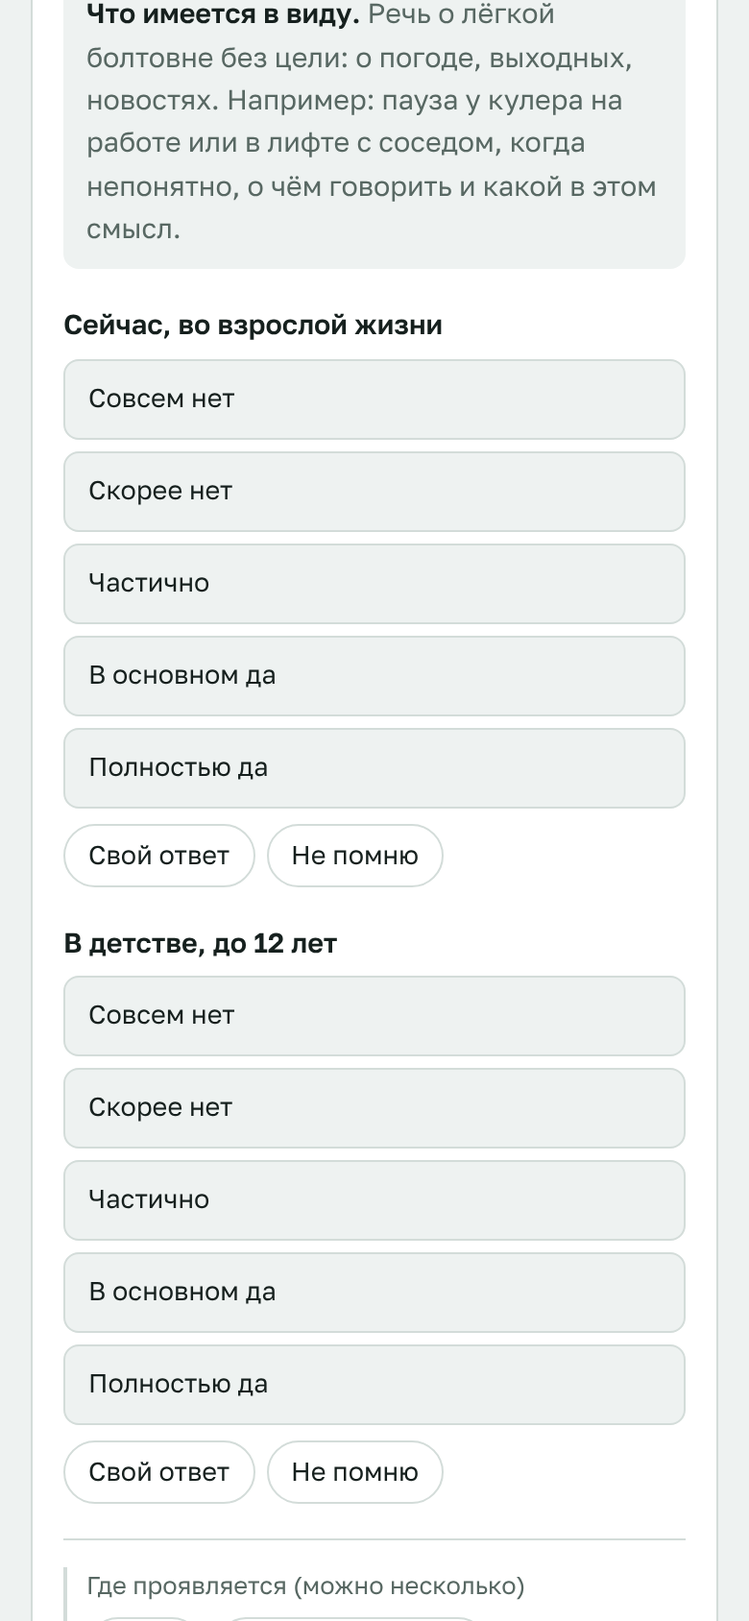
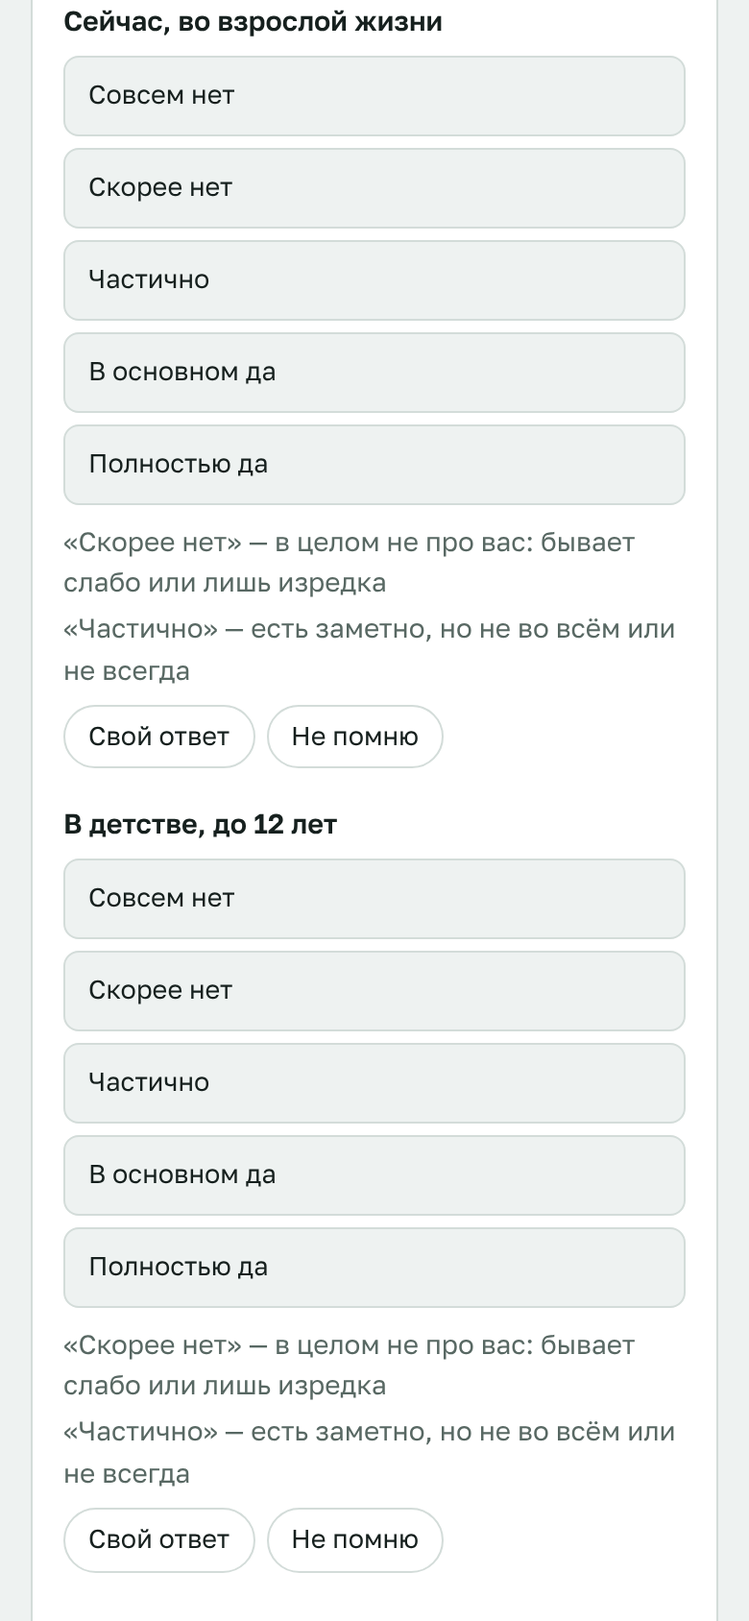
v0.9: simpler answer form
Extra fields (where, visible, impact) only shown and scored when the
'now' answer is at least 'partly'; add 'Не знаю' to them; remove the
'unsure' checkbox and its ±0.2 band; explain 'скорее нет' and 'частично';
drop the inner-contradiction check.

Claude-Session: https://claude.ai/code/session_01Jy1v1oN3Y2bKLuoMN7sQ5k

Changed region(s): [[0.0615, 0.0, 0.9231, 0.9858], [0.0615, 0.955, 0.0923, 1.0]]

diff --git a/dist/scoring.js b/dist/scoring.js
@@ -1,6 +1,7 @@
 // Движок подсчёта ND-Screen v0.2 (см. spec §5). Чистые функции, без DOM.
 // Ответ на пункт:
-//   { now: {I, F}, child: {I, F, unknown}, ctx: [], mask: 0..2, harm: 0..3, unsure, note, na, rt }
+//   { now: {I, F}, child: {I, F, unknown}, ctx: [], mask: 0..2, harm: 0..3, ctxUnk, maskUnk, harmUnk, note, na, rt }
+// ctx, mask и harm учитываются, только если сейчас признак есть хотя бы «частично» (now.I >= 2); «не знаю» = нет ответа.
 //   для kind=func: { now: {D}, child: {D} }
 // I: 0..4, F: "rare"|"some"|"often"|"always", D: 0..3
 
@@ -10,7 +11,6 @@ ND.PARAMS = {
   alpha: 0.5,      // вес добавки за маскировку
   thetaHi: 0.6,    // порог «выполнен»
   thetaLo: 0.4,    // порог «вероятно»
-  unsureBand: 0.2, // ширина интервала для неуверенных ответов
   minCoverage: 0.5,
   adhdAdult: 5,    // DSM-5-TR, 17+ лет
   adhdChildDsm: 3, // «несколько симптомов до 12 лет»
@@ -49,20 +49,19 @@ ND.scoring = (function () {
     const In = p.I / 4;
     if (item.rev) return { s: 1 - In, lo: 1 - In, hi: 1 - In };
     // у сильных сторон частота не спрашивается, поэтому балл равен уровню согласия (иначе «полностью да» давало бы максимум 0.75)
-    if (item.kind === "strength") { const band = r.unsure ? P.unsureBand : 0; return { s: In, lo: Math.max(0, In - band), hi: Math.min(1, In + band) }; }
+    if (item.kind === "strength") return { s: In, lo: In, hi: In };
     const Fn = p.F ? ND.FREQ[p.F] : p.I >= 2 ? 0.5 : 0.2;
     let s = In * (0.5 + 0.5 * Fn);
-    // поправка на маскировку пропорциональна силе признака: при «скорее нет» она почти не действует.
-    // Вопрос «скрываете ли вы» задан про настоящее, поэтому к ответам о детстве поправка не применяется.
-    const m = period === "now" && !item.noMask ? r.mask || 0 : 0;
+    // поправка на маскировку пропорциональна силе признака.
+    // Вопрос «видно ли со стороны» задан про настоящее и показывается только при «частично» и выше,
+    // поэтому к ответам о детстве и к «скорее нет» поправка не применяется.
+    const m = period === "now" && !item.noMask && p.I >= 2 ? r.mask || 0 : 0;
     if (s > 0 && m > 0) s = s + P.alpha * (m / 2) * (1 - s) * In;
-    const band = r.unsure ? P.unsureBand : 0;
-    return { s, lo: Math.max(0, s - band), hi: Math.min(1, s + band) };
+    return { s, lo: s, hi: s };
   }
 
-  // Статус по интервалу [lo, hi]. Без «не уверен(а)» интервал сжат в точку и решает сам балл.
-  // «Выполнен» — весь интервал не ниже верхнего порога; «нет» — весь интервал ниже нижнего;
-  // если неуверенность не позволяет ни подтвердить, ни исключить, статус «вероятно».
+  // Статус по баллу. Поля lo и hi остались от галочки «не уверен(а)» (убрана в v0.9) и теперь равны s.
+  // «Выполнен» — не ниже верхнего порога; «нет» — ниже нижнего; между ними «вероятно».
   function classify(agg, coverage, extraOk = true) {
     if (coverage < P.minCoverage) return ST.NODATA;
     if (agg.lo >= P.thetaHi && extraOk) return ST.MET;
@@ -168,23 +167,8 @@ ND.scoring = (function () {
       flags.push({ code: "pair", severity: badPairs.length >= 2 ? "hard" : "soft", items: badPairs.flat(), details: pairDetails,
         text: `Противоречат друг другу ответы в ${badPairs.length} из ${checkedPairs} пар вопросов с противоположным смыслом.` });
 
-    // 2. Противоречия внутри одного ответа: «совсем нет», но «мешает заметно/сильно» или «не видно, скрываю с усилием».
-    // Отмеченные места при «совсем нет» не считаются противоречием: люди часто отмечают, где бывает сама ситуация,
-    // а в подсчёт места при таком ответе и так не попадают.
-    const inner = [];
-    for (const it of ND.ITEMS.filter((x) => !x.rev && !x.kind && ND.eligible(x, R))) {
-      const r = ans(it.id);
-      if (!r || !r.now || r.now.I !== 0) continue;
-      checks++;
-      const fields = ["I"], why = [];
-      if (r.harm >= 2) { fields.push("harm"); why.push("что он мешает"); }
-      if (r.mask === 2 && !it.noMask) { fields.push("mask"); why.push("что вы его полностью скрываете"); }
-      if (why.length) inner.push({ strength: r.harm === 3 || why.length === 2 ? "strong" : "moderate", refs: [{ id: it.id, period: "now", fields }],
-        why: `Выбрано «совсем нет», то есть признака нет, но при этом отмечено, ${why.join(" и ")}. Одно из двух, скорее всего, отмечено по ошибке.` });
-    }
-    if (inner.length)
-      flags.push({ code: "inner", severity: inner.length >= 5 ? "hard" : "soft", items: inner.map((x) => x.refs[0].id), details: inner,
-        text: `${plural(inner.length, "В {n} ответе", "В {n} ответах", "В {n} ответах")} выбрано «совсем нет», но при этом отмечено, что признак мешает или скрывается с усилием.` });
+    // 2. Противоречий внутри одного ответа больше нет: при «совсем нет» и «скорее нет» поля «мешает» и «видно ли»
+    // не показываются и не учитываются.
 
     // 3. Отдельные вопросы против итоговых вопросов о жизни: по отдельным признакам «мешает заметно или сильно»,
     // а во всех сферах жизни «не мешали». Мягкий флаг: человек мог оценивать сферы по-другому.
@@ -201,7 +185,7 @@ ND.scoring = (function () {
 
     // 4. Камуфляж: в вопросах о маскировке почти везде «нет», но в вопросах об общении многое «не видно, скрываю с усилием».
     const camo = constructScore("CAMO", R, "now");
-    const hidden = ND.ITEMS.filter((it) => it.c && /^ASD\.A/.test(it.c) && ND.eligible(it, R)).filter((it) => { const r = ans(it.id); return r && r.now && r.now.I >= 1 && r.mask === 2; });
+    const hidden = ND.ITEMS.filter((it) => it.c && /^ASD\.A/.test(it.c) && ND.eligible(it, R)).filter((it) => { const r = ans(it.id); return r && r.now && r.now.I >= 2 && r.mask === 2; });
     if (camo.n >= 3) {
       checks++;
       if (camo.s < 0.25 && hidden.length >= 4) {

diff --git a/src/scoring.js b/src/scoring.js
@@ -1,6 +1,7 @@
 // Движок подсчёта ND-Screen v0.2 (см. spec §5). Чистые функции, без DOM.
 // Ответ на пункт:
-//   { now: {I, F}, child: {I, F, unknown}, ctx: [], mask: 0..2, harm: 0..3, unsure, note, na, rt }
+//   { now: {I, F}, child: {I, F, unknown}, ctx: [], mask: 0..2, harm: 0..3, ctxUnk, maskUnk, harmUnk, note, na, rt }
+// ctx, mask и harm учитываются, только если сейчас признак есть хотя бы «частично» (now.I >= 2); «не знаю» = нет ответа.
 //   для kind=func: { now: {D}, child: {D} }
 // I: 0..4, F: "rare"|"some"|"often"|"always", D: 0..3
 
@@ -10,7 +11,6 @@ ND.PARAMS = {
   alpha: 0.5,      // вес добавки за маскировку
   thetaHi: 0.6,    // порог «выполнен»
   thetaLo: 0.4,    // порог «вероятно»
-  unsureBand: 0.2, // ширина интервала для неуверенных ответов
   minCoverage: 0.5,
   adhdAdult: 5,    // DSM-5-TR, 17+ лет
   adhdChildDsm: 3, // «несколько симптомов до 12 лет»
@@ -49,20 +49,19 @@ ND.scoring = (function () {
     const In = p.I / 4;
     if (item.rev) return { s: 1 - In, lo: 1 - In, hi: 1 - In };
     // у сильных сторон частота не спрашивается, поэтому балл равен уровню согласия (иначе «полностью да» давало бы максимум 0.75)
-    if (item.kind === "strength") { const band = r.unsure ? P.unsureBand : 0; return { s: In, lo: Math.max(0, In - band), hi: Math.min(1, In + band) }; }
+    if (item.kind === "strength") return { s: In, lo: In, hi: In };
     const Fn = p.F ? ND.FREQ[p.F] : p.I >= 2 ? 0.5 : 0.2;
     let s = In * (0.5 + 0.5 * Fn);
-    // поправка на маскировку пропорциональна силе признака: при «скорее нет» она почти не действует.
-    // Вопрос «скрываете ли вы» задан про настоящее, поэтому к ответам о детстве поправка не применяется.
-    const m = period === "now" && !item.noMask ? r.mask || 0 : 0;
+    // поправка на маскировку пропорциональна силе признака.
+    // Вопрос «видно ли со стороны» задан про настоящее и показывается только при «частично» и выше,
+    // поэтому к ответам о детстве и к «скорее нет» поправка не применяется.
+    const m = period === "now" && !item.noMask && p.I >= 2 ? r.mask || 0 : 0;
     if (s > 0 && m > 0) s = s + P.alpha * (m / 2) * (1 - s) * In;
-    const band = r.unsure ? P.unsureBand : 0;
-    return { s, lo: Math.max(0, s - band), hi: Math.min(1, s + band) };
+    return { s, lo: s, hi: s };
   }
 
-  // Статус по интервалу [lo, hi]. Без «не уверен(а)» интервал сжат в точку и решает сам балл.
-  // «Выполнен» — весь интервал не ниже верхнего порога; «нет» — весь интервал ниже нижнего;
-  // если неуверенность не позволяет ни подтвердить, ни исключить, статус «вероятно».
+  // Статус по баллу. Поля lo и hi остались от галочки «не уверен(а)» (убрана в v0.9) и теперь равны s.
+  // «Выполнен» — не ниже верхнего порога; «нет» — ниже нижнего; между ними «вероятно».
   function classify(agg, coverage, extraOk = true) {
     if (coverage < P.minCoverage) return ST.NODATA;
     if (agg.lo >= P.thetaHi && extraOk) return ST.MET;
@@ -168,23 +167,8 @@ ND.scoring = (function () {
       flags.push({ code: "pair", severity: badPairs.length >= 2 ? "hard" : "soft", items: badPairs.flat(), details: pairDetails,
         text: `Противоречат друг другу ответы в ${badPairs.length} из ${checkedPairs} пар вопросов с противоположным смыслом.` });
 
-    // 2. Противоречия внутри одного ответа: «совсем нет», но «мешает заметно/сильно» или «не видно, скрываю с усилием».
-    // Отмеченные места при «совсем нет» не считаются противоречием: люди часто отмечают, где бывает сама ситуация,
-    // а в подсчёт места при таком ответе и так не попадают.
-    const inner = [];
-    for (const it of ND.ITEMS.filter((x) => !x.rev && !x.kind && ND.eligible(x, R))) {
-      const r = ans(it.id);
-      if (!r || !r.now || r.now.I !== 0) continue;
-      checks++;
-      const fields = ["I"], why = [];
-      if (r.harm >= 2) { fields.push("harm"); why.push("что он мешает"); }
-      if (r.mask === 2 && !it.noMask) { fields.push("mask"); why.push("что вы его полностью скрываете"); }
-      if (why.length) inner.push({ strength: r.harm === 3 || why.length === 2 ? "strong" : "moderate", refs: [{ id: it.id, period: "now", fields }],
-        why: `Выбрано «совсем нет», то есть признака нет, но при этом отмечено, ${why.join(" и ")}. Одно из двух, скорее всего, отмечено по ошибке.` });
-    }
-    if (inner.length)
-      flags.push({ code: "inner", severity: inner.length >= 5 ? "hard" : "soft", items: inner.map((x) => x.refs[0].id), details: inner,
-        text: `${plural(inner.length, "В {n} ответе", "В {n} ответах", "В {n} ответах")} выбрано «совсем нет», но при этом отмечено, что признак мешает или скрывается с усилием.` });
+    // 2. Противоречий внутри одного ответа больше нет: при «совсем нет» и «скорее нет» поля «мешает» и «видно ли»
+    // не показываются и не учитываются.
 
     // 3. Отдельные вопросы против итоговых вопросов о жизни: по отдельным признакам «мешает заметно или сильно»,
     // а во всех сферах жизни «не мешали». Мягкий флаг: человек мог оценивать сферы по-другому.
@@ -201,7 +185,7 @@ ND.scoring = (function () {
 
     // 4. Камуфляж: в вопросах о маскировке почти везде «нет», но в вопросах об общении многое «не видно, скрываю с усилием».
     const camo = constructScore("CAMO", R, "now");
-    const hidden = ND.ITEMS.filter((it) => it.c && /^ASD\.A/.test(it.c) && ND.eligible(it, R)).filter((it) => { const r = ans(it.id); return r && r.now && r.now.I >= 1 && r.mask === 2; });
+    const hidden = ND.ITEMS.filter((it) => it.c && /^ASD\.A/.test(it.c) && ND.eligible(it, R)).filter((it) => { const r = ans(it.id); return r && r.now && r.now.I >= 2 && r.mask === 2; });
     if (camo.n >= 3) {
       checks++;
       if (camo.s < 0.25 && hidden.length >= 4) {

diff --git a/tests/scoring.test.js b/tests/scoring.test.js
@@ -42,7 +42,7 @@ const pick = (a) => a[Math.floor(rnd() * a.length)];
 function answer(it, lvl) {
   if (it.kind === "func") return { now: { D: Math.min(3, lvl) }, child: { D: Math.min(3, lvl) }, rt: 5000 };
   const p = () => { const I = Math.max(0, Math.min(4, lvl + pick([-1, 0, 0, 1]))); return I >= 2 ? { I, F: pick(FREQ) } : { I }; };
-  return { now: p(), child: rnd() < 0.1 ? { unknown: true } : p(), mask: pick([0, 0, 1, 2]), harm: pick([0, 1, 2, 3]), ctx: [pick(["home", "work", "friends"])], unsure: rnd() < 0.1, rt: 5000 };
+  return { now: p(), child: rnd() < 0.1 ? { unknown: true } : p(), mask: pick([0, 0, 1, 2]), harm: pick([0, 1, 2, 3]), ctx: [pick(["home", "work", "friends"])], rt: 5000 };
 }
 function profile(lvlFn) { const R = {}; for (const it of ITEMS) R[it.id] = answer(it, lvlFn(it)); return R; }
 const uniform = (l) => () => l;
@@ -96,7 +96,10 @@ for (let k = 0; k < 300; k++) {
   check("частота повышает балл", ND.scoring.itemScore(it, { ...base, now: { I: 3, F: "always" } }, "now").s > s0);
   check("маскировка повышает балл", ND.scoring.itemScore(it, { ...base, mask: 2 }, "now").s > s0);
   const u = ND.scoring.itemScore(it, { ...base, unsure: true }, "now");
-  check("«не уверен» расширяет интервал", u.lo < u.s && u.hi > u.s);
+  check("старая галочка «не уверен(а)» больше не влияет (v0.9)", u.s === s0 && u.lo === s0 && u.hi === s0, u);
+  const low = { now: { I: 1 }, child: { I: 1 } }, l0 = ND.scoring.itemScore(it, low, "now").s;
+  check("при «скорее нет» «видно ли со стороны» не учитывается", ND.scoring.itemScore(it, { ...low, mask: 2 }, "now").s === l0);
+  check("«не знаю» в поле «видно ли» = нет ответа", ND.scoring.itemScore(it, { ...base, maskUnk: true }, "now").s === s0);
   check("«не помню» исключает период", ND.scoring.itemScore(it, { ...base, child: { unknown: true } }, "child") === null);
   check("свой ответ без варианта не считается", ND.scoring.itemScore(it, { now: { custom: true, text: "иногда" }, child: {} }, "now") === null);
   check("«неприменимо» исключает вопрос", ND.scoring.itemScore(it, { ...base, na: true }, "now") === null);
@@ -211,25 +214,25 @@ for (let k = 0; k < 300; k++) {
 
   const R2 = consistent();
   ITEMS.filter((x) => !x.rev && !x.kind && !x.fu).slice(0, 5).forEach((it) => { R2[it.id].now = { I: 0 }; R2[it.id].harm = 3; });
-  check("5 ответов «совсем нет, но мешает сильно» → жёсткий флаг", ev(R2).validity.some((f) => f.code === "inner" && f.severity === "hard"), ev(R2).validity);
+  check("«совсем нет» с сохранённым «мешает сильно» больше не противоречие: поле скрыто", !ev(R2).validity.some((f) => f.code === "inner"), ev(R2).validity);
+  check("скрытые поля при «совсем нет» не меняют индексы", ev(R2).asd.index === ev((() => { const X = JSON.parse(JSON.stringify(R2)); for (const k in X) if (X[k].now && X[k].now.I === 0) delete X[k].harm; return X; })()).asd.index);
 
   const R3 = consistent();
   const one = ITEMS.find((x) => x.id === "A1-1"); R3[one.id].now = { I: 0 }; R3[one.id].harm = 3;
-  check("одна такая ошибка → только мягкое предупреждение", !ev(R3).validity.some((f) => f.code === "inner" && f.severity === "hard"));
+  check("одна такая отметка флага не даёт", !ev(R3).validity.some((f) => f.code === "inner"));
 }
 
 // ── Логика весов (v0.4.2) ──
 {
   const base = () => { const R = {}; for (const it of ITEMS) if (it.c === "ASD.A1") R[it.id] = { now: { I: 3, F: "often" }, child: { I: 3, F: "often" } }; return R; };
   const st = (R) => ev(R).constructs["ASD.A1"].now.status;
-  check("без неуверенности A1 «выполнен»", st(base()) === "met", ev(base()).constructs["ASD.A1"].now);
+  check("A1 «выполнен»", st(base()) === "met", ev(base()).constructs["ASD.A1"].now);
   const U = base(); for (const k in U) U[k].unsure = true;
-  check("та же картина, но везде «не уверен(а)» → «вероятно»", st(U) === "probable", ev(U).constructs["ASD.A1"].now);
+  check("старая отметка «не уверен(а)» статус не меняет", st(U) === "met", ev(U).constructs["ASD.A1"].now);
   const W = {}; for (const it of ITEMS) if (it.c === "ASD.A1") W[it.id] = { now: { I: 2, F: "rare" }, child: { I: 0 } };
-  const W2 = JSON.parse(JSON.stringify(W)); for (const k in W2) W2[k].unsure = true;
-  check("слабый признак без неуверенности → «нет»", st(W) === "no", ev(W).constructs["ASD.A1"].now);
-  check("слабый признак с неуверенностью → «вероятно» (симметрично)", st(W2) === "probable", ev(W2).constructs["ASD.A1"].now);
-  check("неуверенность не меняет сам балл", ev(U).constructs["ASD.A1"].now.s === ev(base()).constructs["ASD.A1"].now.s);
+  check("слабый признак → «нет»", st(W) === "no", ev(W).constructs["ASD.A1"].now);
+  const K = base(); for (const k in K) { K[k].harmUnk = true; K[k].maskUnk = true; K[k].ctxUnk = true; }
+  check("«не знаю» в доп. полях не меняет баллы", ev(K).asd.index === ev(base()).asd.index && st(K) === "met");
 
   const it = ITEMS.find((x) => x.id === "A1-1");
   const r0 = { now: { I: 3, F: "often" }, child: { I: 3, F: "often" } }, r2 = { ...r0, mask: 2 };

diff --git a/dist/clinician.js b/dist/clinician.js
@@ -20,11 +20,16 @@ ND.clinician = (function () {
       return U.I_LABELS[x.I].toLowerCase() + (x.F ? ", " + F[x.F].toLowerCase() : "");
     };
     const parts = [`сейчас: ${per("now")}`, `детство: ${per("child")}`];
-    if (r.mask === 1) parts.push("частично сдерживает");
-    if (r.mask === 2) parts.push("скрывает с усилием");
-    if (r.harm >= 1) parts.push("мешает " + U.D_LABELS[r.harm].toLowerCase());
-    if (r.ctx && r.ctx.length) parts.push("где: " + r.ctx.map((c) => CTX_LABEL()[c].toLowerCase()).join(", "));
-    if (r.unsure) parts.push("не уверен(а)");
+    // где, мешает и видно ли учитываются только при «частично» и выше (старые сохранённые ответы могут их содержать)
+    if (r.now && r.now.I >= 2) {
+      if (r.mask === 1) parts.push("частично сдерживает");
+      if (r.mask === 2) parts.push("скрывает с усилием");
+      if (r.maskUnk) parts.push("видно ли со стороны: не знает");
+      if (r.harm >= 1) parts.push("мешает " + U.D_LABELS[r.harm].toLowerCase());
+      if (r.harmUnk) parts.push("мешает ли: не знает");
+      if (r.ctx && r.ctx.length) parts.push("где: " + r.ctx.map((c) => CTX_LABEL()[c].toLowerCase()).join(", "));
+      if (r.ctxUnk) parts.push("где: не знает");
+    }
     return parts.join(" · ");
   }
 
@@ -225,7 +230,6 @@ ND.clinician = (function () {
     const topics = [
       ["Скрывает с усилием (вероятная маскировка, уточнить у близких)", scored.filter((it) => R[it.id].mask === 2)],
       ["Выражено сейчас, но детство не вспомнил(а) (нужен рассказ родителя)", scored.filter((it) => R[it.id].child && R[it.id].child.unknown)],
-      ["Не уверен(а) в ответе", scored.filter((it) => R[it.id].unsure)],
       ["Выражено сейчас, в детстве не было (уточнить начало и возможные другие причины)", scored.filter((it) => R[it.id].child && R[it.id].child.I != null && R[it.id].child.I <= 0 && R[it.id].now.I >= 3)],
     ].filter(([, list]) => list.length);
     const own = ND.ITEMS.filter((it) => R[it.id]).map((it) => {

diff --git a/src/clinician.js b/src/clinician.js
@@ -20,11 +20,16 @@ ND.clinician = (function () {
       return U.I_LABELS[x.I].toLowerCase() + (x.F ? ", " + F[x.F].toLowerCase() : "");
     };
     const parts = [`сейчас: ${per("now")}`, `детство: ${per("child")}`];
-    if (r.mask === 1) parts.push("частично сдерживает");
-    if (r.mask === 2) parts.push("скрывает с усилием");
-    if (r.harm >= 1) parts.push("мешает " + U.D_LABELS[r.harm].toLowerCase());
-    if (r.ctx && r.ctx.length) parts.push("где: " + r.ctx.map((c) => CTX_LABEL()[c].toLowerCase()).join(", "));
-    if (r.unsure) parts.push("не уверен(а)");
+    // где, мешает и видно ли учитываются только при «частично» и выше (старые сохранённые ответы могут их содержать)
+    if (r.now && r.now.I >= 2) {
+      if (r.mask === 1) parts.push("частично сдерживает");
+      if (r.mask === 2) parts.push("скрывает с усилием");
+      if (r.maskUnk) parts.push("видно ли со стороны: не знает");
+      if (r.harm >= 1) parts.push("мешает " + U.D_LABELS[r.harm].toLowerCase());
+      if (r.harmUnk) parts.push("мешает ли: не знает");
+      if (r.ctx && r.ctx.length) parts.push("где: " + r.ctx.map((c) => CTX_LABEL()[c].toLowerCase()).join(", "));
+      if (r.ctxUnk) parts.push("где: не знает");
+    }
     return parts.join(" · ");
   }
 
@@ -225,7 +230,6 @@ ND.clinician = (function () {
     const topics = [
       ["Скрывает с усилием (вероятная маскировка, уточнить у близких)", scored.filter((it) => R[it.id].mask === 2)],
       ["Выражено сейчас, но детство не вспомнил(а) (нужен рассказ родителя)", scored.filter((it) => R[it.id].child && R[it.id].child.unknown)],
-      ["Не уверен(а) в ответе", scored.filter((it) => R[it.id].unsure)],
       ["Выражено сейчас, в детстве не было (уточнить начало и возможные другие причины)", scored.filter((it) => R[it.id].child && R[it.id].child.I != null && R[it.id].child.I <= 0 && R[it.id].now.I >= 3)],
     ].filter(([, list]) => list.length);
     const own = ND.ITEMS.filter((it) => R[it.id]).map((it) => {

diff --git a/dist/explain.js b/dist/explain.js
@@ -13,18 +13,17 @@ ND.explain = (function () {
     if (k.status === ST.NODATA) return "Отвечено меньше половины основных вопросов, поэтому оценки нет.";
     // округление не должно давать «40: ниже 40»: значение показывается в пределах своего диапазона
     const s = k.status === ST.NO ? Math.min(39, pct(k.s)) : k.status === ST.PROB && k.s < P.thetaHi ? Math.min(59, Math.max(40, pct(k.s))) : pct(k.s);
-    if (k.status === ST.MET) return `Выраженность ${s}: не ниже порога 60.` + (k.hi > k.lo ? ` Даже с учётом «не уверен(а)» нижняя граница ${pct(k.lo)} не ниже 60.` : "");
+    if (k.status === ST.MET) return `Выраженность ${s}: не ниже порога 60.`;
     if (k.status === ST.PROB) {
       const parts = [];
-      if (k.s >= P.thetaHi && k.lo < P.thetaHi && !extra) parts.push(`Выраженность ${s} выше 60, но из-за отметок «не уверен(а)» нижняя граница ${pct(k.lo)}. Чтобы засчитать «выполнен», весь диапазон должен быть не ниже 60.`);
-      else if (k.s >= P.thetaHi && extra) parts.push(`Выраженность ${s} выше 60, но ${extra}.`);
+      if (k.s >= P.thetaHi && extra) parts.push(`Выраженность ${s} выше 60, но ${extra}.`);
       else {
         parts.push(`Выраженность ${s}: между 40 и 60. До «выполнен» не хватает ${gap(k.s, P.thetaHi)}.`);
         if (extra) parts.push(`Кроме того, ${extra}.`);
       }
       return parts.join(" ");
     }
-    return `Выраженность ${s}: ниже 40.` + (k.hi > k.s ? ` С учётом «не уверен(а)» верхняя граница ${pct(k.hi)}, тоже ниже 40.` : ` До «вероятно» не хватает ${gap(k.s, P.thetaLo)}.`);
+    return `Выраженность ${s}: ниже 40.` + ` До «вероятно» не хватает ${gap(k.s, P.thetaLo)}.`;
   }
 
   // DSM требует «часто»: есть ли у симптома ответ с частотой «часто» или «почти всегда»

diff --git a/src/explain.js b/src/explain.js
@@ -13,18 +13,17 @@ ND.explain = (function () {
     if (k.status === ST.NODATA) return "Отвечено меньше половины основных вопросов, поэтому оценки нет.";
     // округление не должно давать «40: ниже 40»: значение показывается в пределах своего диапазона
     const s = k.status === ST.NO ? Math.min(39, pct(k.s)) : k.status === ST.PROB && k.s < P.thetaHi ? Math.min(59, Math.max(40, pct(k.s))) : pct(k.s);
-    if (k.status === ST.MET) return `Выраженность ${s}: не ниже порога 60.` + (k.hi > k.lo ? ` Даже с учётом «не уверен(а)» нижняя граница ${pct(k.lo)} не ниже 60.` : "");
+    if (k.status === ST.MET) return `Выраженность ${s}: не ниже порога 60.`;
     if (k.status === ST.PROB) {
       const parts = [];
-      if (k.s >= P.thetaHi && k.lo < P.thetaHi && !extra) parts.push(`Выраженность ${s} выше 60, но из-за отметок «не уверен(а)» нижняя граница ${pct(k.lo)}. Чтобы засчитать «выполнен», весь диапазон должен быть не ниже 60.`);
-      else if (k.s >= P.thetaHi && extra) parts.push(`Выраженность ${s} выше 60, но ${extra}.`);
+      if (k.s >= P.thetaHi && extra) parts.push(`Выраженность ${s} выше 60, но ${extra}.`);
       else {
         parts.push(`Выраженность ${s}: между 40 и 60. До «выполнен» не хватает ${gap(k.s, P.thetaHi)}.`);
         if (extra) parts.push(`Кроме того, ${extra}.`);
       }
       return parts.join(" ");
     }
-    return `Выраженность ${s}: ниже 40.` + (k.hi > k.s ? ` С учётом «не уверен(а)» верхняя граница ${pct(k.hi)}, тоже ниже 40.` : ` До «вероятно» не хватает ${gap(k.s, P.thetaLo)}.`);
+    return `Выраженность ${s}: ниже 40.` + ` До «вероятно» не хватает ${gap(k.s, P.thetaLo)}.`;
   }
 
   // DSM требует «часто»: есть ли у симптома ответ с частотой «часто» или «почти всегда»

diff --git a/docs/spec.md b/docs/spec.md
@@ -421,9 +421,18 @@ ScoreResult:
 
 ## v0.8.1: убрана проверка «разброс внутри темы»
 
-- Участники получали «Разброс» на пары вроде «делаю повторяющиеся движения» и «завораживают вращающиеся предметы»: это разные проявления одной темы, и разные ответы на них нормальны. Проверка не находила противоречий, а путала людей, поэтому удалена. Остались пары с противоположным смыслом, противоречия внутри ответа, сферы жизни против вопросов, маскировка, однообразие, скорость и «неприменимо». Баллы не менялись и раньше: разброс был только мягким предупреждением.
+- Участники получали «Разброс» на пары вроде «делаю повторяющиеся движения» и «завораживают вращающиеся предметы»: это разные проявления одной темы, и разные ответы на них нормальны. Проверка не находила противоречий, а путала людей, поэтому удалена. Остались пары с противоположным смыслом, противоречия внутри ответа (убраны в v0.9), сферы жизни против вопросов, маскировка, однообразие, скорость и «неприменимо». Баллы не менялись и раньше: разброс был только мягким предупреждением.
 
 ## v0.8.2: тип СДВГ в общем выводе
 
 - overall() отдаёт adhdType: при выраженных признаках СДВГ (частичное соответствие и выше) тип по DSM-5-TR показывается сразу под общим выводом, в сводке для специалиста и в копии текстом. Если тип не определён (нет 5 выполненных симптомов в группе или не подтверждено начало до 12 лет), так и написано. Баллы не меняются.
+
+## v0.9: форма ответа проще
+
+- ctx, mask и harm показываются (extrasBlock) и учитываются (itemScore, camo, harmOf, ctx) только при now.I ≥ 2. Старые сохранённые значения при now.I ≤ 1 игнорируются.
+- «Не знаю» в этих полях: флаги ctxUnk, maskUnk, harmUnk; значение поля удаляется, в баллы не идёт. В отчёте для специалиста: «не знает».
+- Галочка «не уверен(а)» удалена, P.unsureBand убран; lo = hi = s, статус по самому баллу. Старый флаг unsure игнорируется.
+- Под шкалой уровней пояснение «скорее нет» и «частично»; то же во вступлении.
+- Проверка inner удалена.
+- Сравнение до и после: p1 и опорные профили без изменений индексов и уровней (у p1 тема A1 0.511 → 0.508, исчез мягкий флаг inner). 300 случайных профилей без галочки: уровни не менялись, Δиндекс РАС от −1 до 0, СДВГ от −3 до 0.
 
